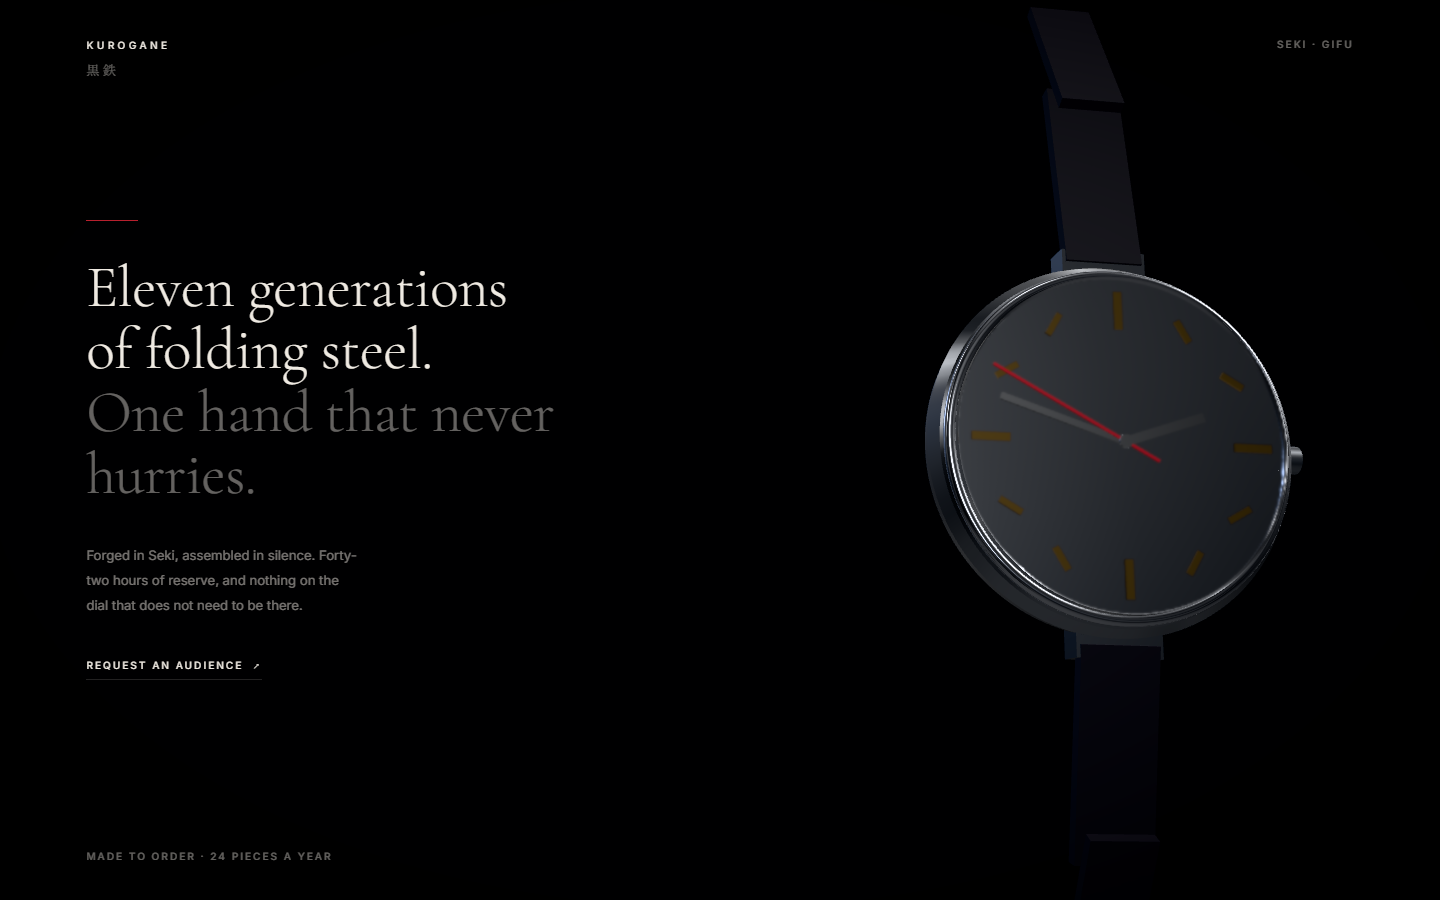
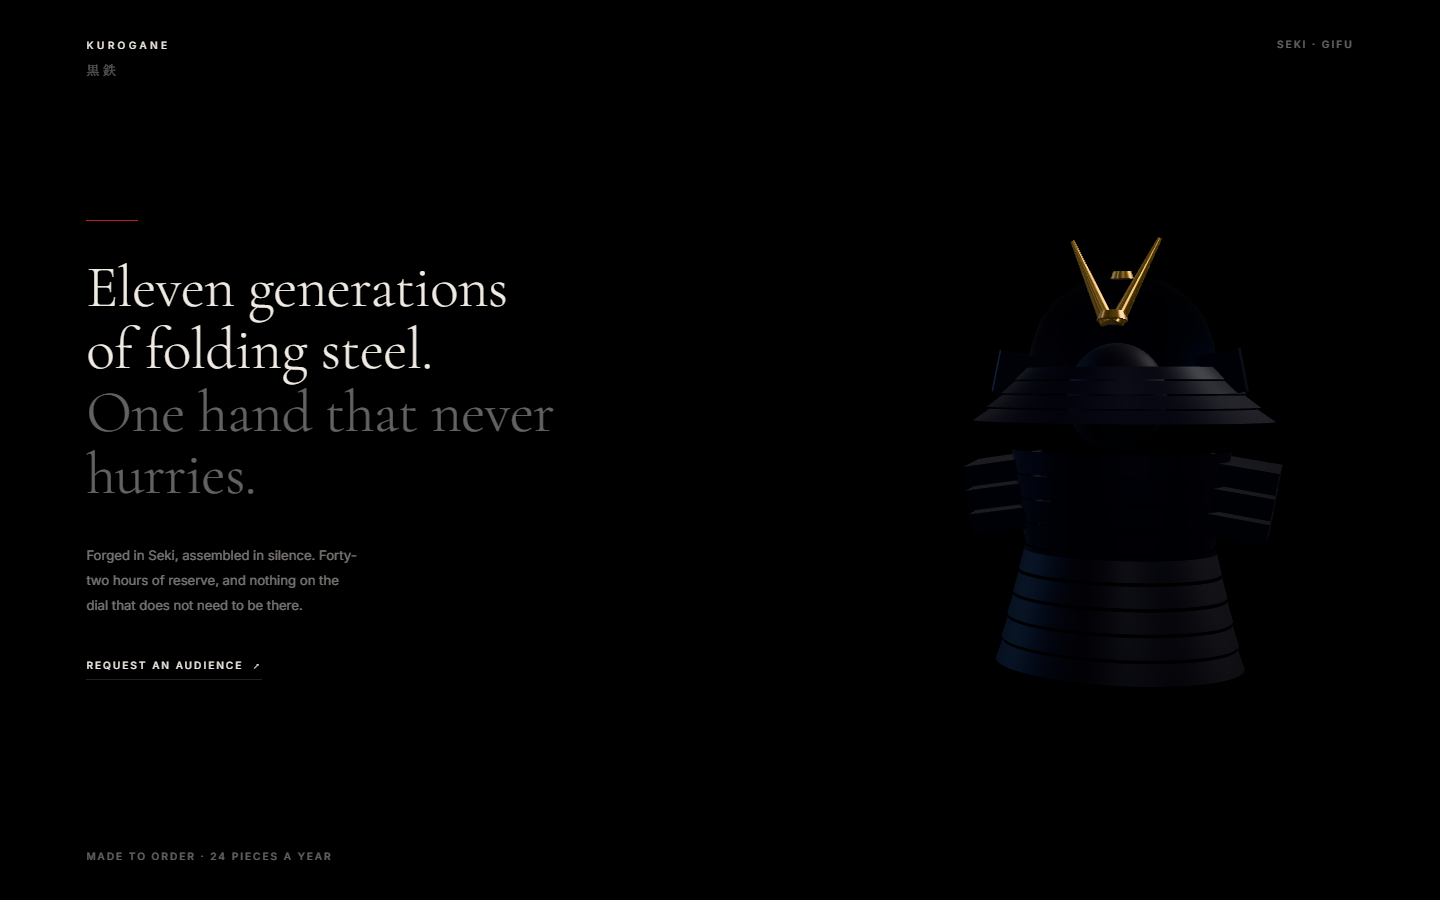
Render the samurai the brief kept talking about
The brief opened with eleven generations of swordsmiths and the page had
no samurai in it — only Japanese type. Now there is one, and it carries
the first beat.

A bust in armour: kabuto, kuwagata, mempo, do, sode and kusazuri, built
from lathes and open cylinders and lit almost entirely as silhouette with
a rim on the edges. That is how armour photographs in a dark room, and it
is also why a figure made of primitives survives being looked at.

The page now has one idea rather than a product shot. The armour holds
the first screen, recedes into the dark on scroll, and the watch arrives
from the right and settles face-on as the spec rail takes over from the
headline. The eleven generations are the transition rather than a claim
in the copy.

Two passes to get the figure right. It was first built at a scale that
cropped the helmet off the top of the frame, so only the mask and
shoulders showed and the crest looked like it was floating free. And the
crest itself was a near-closed torus meant as a crescent, which read as a
handle; the kuwagata, two brass horns in a V rising from the brow, says
kabuto instantly even small and dark. When a form has to be recognisable
at a glance, spend the detail on the one silhouette that carries the
identity and let the rest stay a shadow.

Changed region(s): [[0.625, 0.2178, 0.9062, 0.7467]]

diff --git a/demo-samurai/src/Samurai.jsx b/demo-samurai/src/Samurai.jsx
@@ -1,0 +1,202 @@
+import { useMemo, useRef } from 'react'
+import { useFrame } from '@react-three/fiber'
+import * as THREE from 'three'
+
+/**
+ * A samurai in armour, as a bust — kabuto, mempo, dō and sode, cropped by the frame.
+ *
+ * Built from primitives, and deliberately read almost entirely as silhouette with a rim
+ * light catching the edges. That is not a dodge: armour photographed in a dark room looks
+ * exactly like this, and it means the piece survives being made of lathes and boxes. A
+ * fully lit low-poly figure would look like a game asset. This one looks like a photograph
+ * of something in a vitrine.
+ *
+ * Lacquered iron everywhere, brass on the maedate crest alone. No red: the accent is spent
+ * on the seconds hand and the rule, and a third use would cost the restraint its effect.
+ */
+
+// Helmet bowl, in cross-section: radius against height, apex first.
+const HACHI = [
+  [0.02, 0.66],
+  [0.13, 0.645],
+  [0.27, 0.60],
+  [0.40, 0.505],
+  [0.495, 0.375],
+  [0.545, 0.225],
+  [0.565, 0.09],
+  [0.565, 0.05],
+]
+
+export default function Samurai({ progressRef }) {
+  const group = useRef()
+  const sway = useRef()
+
+  const hachiGeo = useMemo(() => {
+    const g = new THREE.LatheGeometry(
+      HACHI.map(([x, y]) => new THREE.Vector2(x, y)),
+      96,
+    )
+    g.computeVertexNormals()
+    return g
+  }, [])
+
+  // Lacquered iron. Dark enough that the form is carried by the rim, metallic enough that
+  // the rim is a hard line rather than a soft glow.
+  const iron = useMemo(
+    () =>
+      new THREE.MeshStandardMaterial({
+        color: '#1b1b23',
+        metalness: 0.7,
+        roughness: 0.44,
+        transparent: true,
+      }),
+    [],
+  )
+  const ironMatte = useMemo(
+    () =>
+      new THREE.MeshStandardMaterial({
+        color: '#141419',
+        metalness: 0.42,
+        roughness: 0.66,
+        transparent: true,
+      }),
+    [],
+  )
+  const brass = useMemo(
+    () =>
+      new THREE.MeshStandardMaterial({
+        color: '#b08d57',
+        metalness: 1,
+        roughness: 0.28,
+        transparent: true,
+      }),
+    [],
+  )
+  const materials = useMemo(() => [iron, ironMatte, brass], [iron, ironMatte, brass])
+
+  // Lamellar rows. Real armour is hundreds of small plates laced together; at this distance
+  // what reads is the stack of horizontal bands, so that is what gets built.
+  const shikoro = useMemo(
+    () =>
+      [0, 1, 2, 3].map((i) => ({
+        y: 0.045 - i * 0.085,
+        rTop: 0.575 + i * 0.075,
+        rBot: 0.65 + i * 0.085,
+        h: 0.075,
+      })),
+    [],
+  )
+  const kusazuri = useMemo(
+    () =>
+      [0, 1, 2, 3, 4].map((i) => ({
+        y: -0.5 - i * 0.145,
+        rTop: 0.58 + i * 0.032,
+        rBot: 0.61 + i * 0.035,
+        h: 0.125,
+      })),
+    [],
+  )
+
+  useFrame((state, delta) => {
+    const d = Math.min(delta, 0.1)
+    const p = progressRef.current
+
+    // Hands the stage to the watch. Recedes rather than sliding away — the story is that
+    // the armour becomes the object, so it should retreat, not exit.
+    const out = THREE.MathUtils.smoothstep(p, 0.24, 0.52)
+    const o = 1 - out
+    for (const m of materials) m.opacity = o
+    group.current.visible = o > 0.01
+    group.current.position.z = THREE.MathUtils.lerp(0, -2.2, out)
+    group.current.position.x = THREE.MathUtils.lerp(1.2, 0.6, out)
+    group.current.scale.setScalar(THREE.MathUtils.lerp(0.62, 0.5, out))
+
+    // Barely alive. A slow breath, and a few degrees toward the cursor.
+    const t = state.clock.elapsedTime
+    sway.current.rotation.y = THREE.MathUtils.damp(
+      sway.current.rotation.y,
+      -0.42 + Math.sin(t * 0.09) * 0.05 + state.pointer.x * 0.07,
+      1.6,
+      d,
+    )
+    sway.current.position.y = Math.sin(t * 0.16) * 0.012
+  })
+
+  const plate = ({ y, rTop, rBot, h }, i, mat) => (
+    <mesh key={i} position={[0, y, 0]} material={mat}>
+      <cylinderGeometry args={[rTop, rBot, h, 64, 1, true]} />
+    </mesh>
+  )
+
+  return (
+    <group ref={group} position={[1.2, -0.12, 0]} scale={0.62}>
+      <group ref={sway}>
+        {/* kabuto — the bowl */}
+        <mesh geometry={hachiGeo} material={iron} position={[0, 0.62, 0]} />
+
+        {/* tehen: the small opening at the crown */}
+        <mesh position={[0, 1.275, 0]} material={brass}>
+          <cylinderGeometry args={[0.055, 0.07, 0.045, 24]} />
+        </mesh>
+
+        {/* shikoro — the flared neck guard, four laced rows */}
+        <group position={[0, 0.62, 0]}>{shikoro.map((s, i) => plate(s, i, iron))}</group>
+
+        {/* fukigaeshi — the two plates swept back at the temples */}
+        {[1, -1].map((s) => (
+          <mesh
+            key={s}
+            position={[s * 0.6, 0.66, 0.16]}
+            rotation={[0.12, s * -0.5, s * 0.22]}
+            material={iron}
+          >
+            <boxGeometry args={[0.3, 0.26, 0.03]} />
+          </mesh>
+        ))}
+
+        {/* kuwagata — the two horns rising from the brow, and the only brass on the
+            figure. This is the shape that reads as "kabuto" instantly; a closed arc reads
+            as a handle. */}
+        <group position={[0, 0.98, 0.42]} rotation={[-0.22, 0, 0]}>
+          {[1, -1].map((s) => (
+            <mesh key={s} position={[s * 0.14, 0.24, 0]} rotation={[0, 0, s * -0.42]} material={brass}>
+              <cylinderGeometry args={[0.012, 0.045, 0.56, 16]} />
+            </mesh>
+          ))}
+          {/* the small central plate the horns mount to */}
+          <mesh position={[0, 0.02, 0]} material={brass}>
+            <cylinderGeometry args={[0.075, 0.09, 0.05, 24]} />
+          </mesh>
+        </group>
+
+        {/* mempo — the face mask, set back under the brow so the face stays a shadow */}
+        <mesh position={[0, 0.52, 0.2]} scale={[0.9, 1, 0.75]} material={ironMatte}>
+          <sphereGeometry args={[0.33, 40, 28]} />
+        </mesh>
+
+        {/* dō — the chest, five lamellar rows narrowing to the waist */}
+        <group position={[0, 0, 0]}>
+          {[0, 1, 2, 3, 4].map((i) => (
+            <mesh key={i} position={[0, 0.12 - i * 0.15, 0]} material={iron}>
+              <cylinderGeometry args={[0.66 - i * 0.02, 0.64 - i * 0.025, 0.14, 56, 1, true]} />
+            </mesh>
+          ))}
+        </group>
+
+        {/* kusazuri — the skirt plates, flaring out below the waist */}
+        {kusazuri.map((s, i) => plate(s, i, ironMatte))}
+
+        {/* sode — shoulder plates, three tiers each side */}
+        {[1, -1].map((s) => (
+          <group key={s} position={[s * 0.72, 0.06, 0]} rotation={[0, 0, s * -0.16]}>
+            {[0, 1, 2].map((i) => (
+              <mesh key={i} position={[0, -i * 0.15, 0]} rotation={[0.06, 0, 0]} material={iron}>
+                <boxGeometry args={[0.42, 0.13, 0.5 + i * 0.03]} />
+              </mesh>
+            ))}
+          </group>
+        ))}
+      </group>
+    </group>
+  )
+}

diff --git a/demo-samurai/src/Watch.jsx b/demo-samurai/src/Watch.jsx
@@ -144,21 +144,23 @@ export default function Watch({ progressRef }) {
     // Slow enough that you are not sure it is moving: a full turn takes about three minutes.
     spin.current.rotation.y += d * 0.035
 
-    // Scroll turns it to profile. Damped so the object leads and the page follows.
-    const toProfile = THREE.MathUtils.smoothstep(p, 0.15, 0.85)
+    // The watch is the second beat now. It arrives from the right, turned, and settles
+    // face-on as the armour recedes — the page's one idea, told as a movement.
+    const enter = THREE.MathUtils.smoothstep(p, 0.3, 0.68)
     group.current.rotation.y = THREE.MathUtils.damp(
       group.current.rotation.y,
-      THREE.MathUtils.lerp(0.16, -1.15, toProfile),
+      THREE.MathUtils.lerp(0.62, 0.1, enter),
       3,
       d,
     )
     group.current.rotation.x = THREE.MathUtils.damp(
       group.current.rotation.x,
-      THREE.MathUtils.lerp(-0.26, -0.07, toProfile),
+      THREE.MathUtils.lerp(-0.34, -0.2, enter),
       3,
       d,
     )
-    group.current.position.x = THREE.MathUtils.lerp(1.15, 0.35, toProfile)
+    group.current.position.x = THREE.MathUtils.lerp(4.9, 1.15, enter)
+    group.current.position.y = THREE.MathUtils.lerp(-0.35, 0, enter)
 
     // A few degrees of cursor parallax. Nothing more, per the brief.
     const tx = state.pointer.y * 0.07
@@ -171,7 +173,7 @@ export default function Watch({ progressRef }) {
   })
 
   return (
-    <group ref={group} position={[1.15, 0, 0]} scale={0.74} rotation={[-0.26, 0.16, 0]}>
+    <group ref={group} position={[4.9, -0.35, 0]} scale={0.74} rotation={[-0.34, 0.62, 0]}>
       <group ref={spin}>
         {/* dial faces the camera */}
         {/* +PI/2, not -PI/2: -PI/2 maps the dial normal to -Z and shows the caseback. */}

diff --git a/demo-samurai/src/Scene.jsx b/demo-samurai/src/Scene.jsx
@@ -4,6 +4,7 @@ import { EffectComposer, Noise, ToneMapping, Vignette } from '@react-three/postp
 import { BlendFunction, ToneMappingMode } from 'postprocessing'
 import * as THREE from 'three'
 import { RoomEnvironment } from 'three/addons/environments/RoomEnvironment.js'
+import Samurai from './Samurai'
 import Watch from './Watch'
 
 /**
@@ -71,11 +72,13 @@ export default function Scene({ scrollRef }) {
         shadow-normalBias={0.02}
       />
       {/* Cool rim from behind left, to separate steel from a black ground. */}
-      <directionalLight position={[-5, 1.5, -3.5]} intensity={1.1} color="#93a6c8" />
+      <directionalLight position={[-5, 1.5, -3.5]} intensity={1.9} color="#93a6c8" />
       {/* A weak frontal fill, standing in for the reflector a photographer would use: just
           enough to put light in the hands and markers without lifting the dial. */}
       <directionalLight position={[0.6, 0.8, 4.5]} intensity={0.42} color="#cfd6e2" />
 
+      {/* The armour first, then the object it became. */}
+      <Samurai progressRef={progress} />
       <Watch progressRef={progress} />
 
       <EffectComposer>

diff --git a/demo-samurai/README.md b/demo-samurai/README.md
@@ -9,9 +9,30 @@ npm install
 npm run dev
 ```
 
-![Hero: the watch right of centre, headline stacked against a hard left margin](docs/hero.png)
+![Hero: a samurai in armour, kabuto and kuwagata horns, right of centre](docs/hero.png)
 
-![Second beat: the watch turned, the spec rail in place of the headline](docs/rail.png)
+![Second beat: the armour has receded and the watch arrived, with the spec rail](docs/rail.png)
+
+Two beats, and the page has one idea: **the armour becomes the object.** A samurai bust holds
+the first screen; on scroll it recedes into the dark and the watch arrives from the right and
+settles face-on. The eleven generations in the headline are the transition, not a claim in the
+copy.
+
+## The armour
+
+Kabuto, kuwagata, mempo, dō, sode and kusazuri, built from lathes and open cylinders and read
+almost entirely as silhouette with a rim light on the edges. That is not a dodge around low-poly
+modelling — armour photographed in a dark room looks exactly like this — but it is the reason a
+figure made of primitives holds up. Fully lit, it would read as a game asset.
+
+One shape does most of the work: the **kuwagata**, the two brass horns rising from the brow. The
+first attempt was a near-closed torus as a crescent and it read as a handle on top of the helmet.
+Two horns in a V say "kabuto" instantly, even at this size and this dark. When a form has to be
+recognisable at a glance, find the one silhouette that carries the identity and spend the detail
+there — everything else can stay a shadow.
+
+Brass appears only on the crest. The red accent is spent on the seconds hand and the rule, and a
+third use would have cost the restraint its effect.
 
 ## What the skill did and did not supply
 
